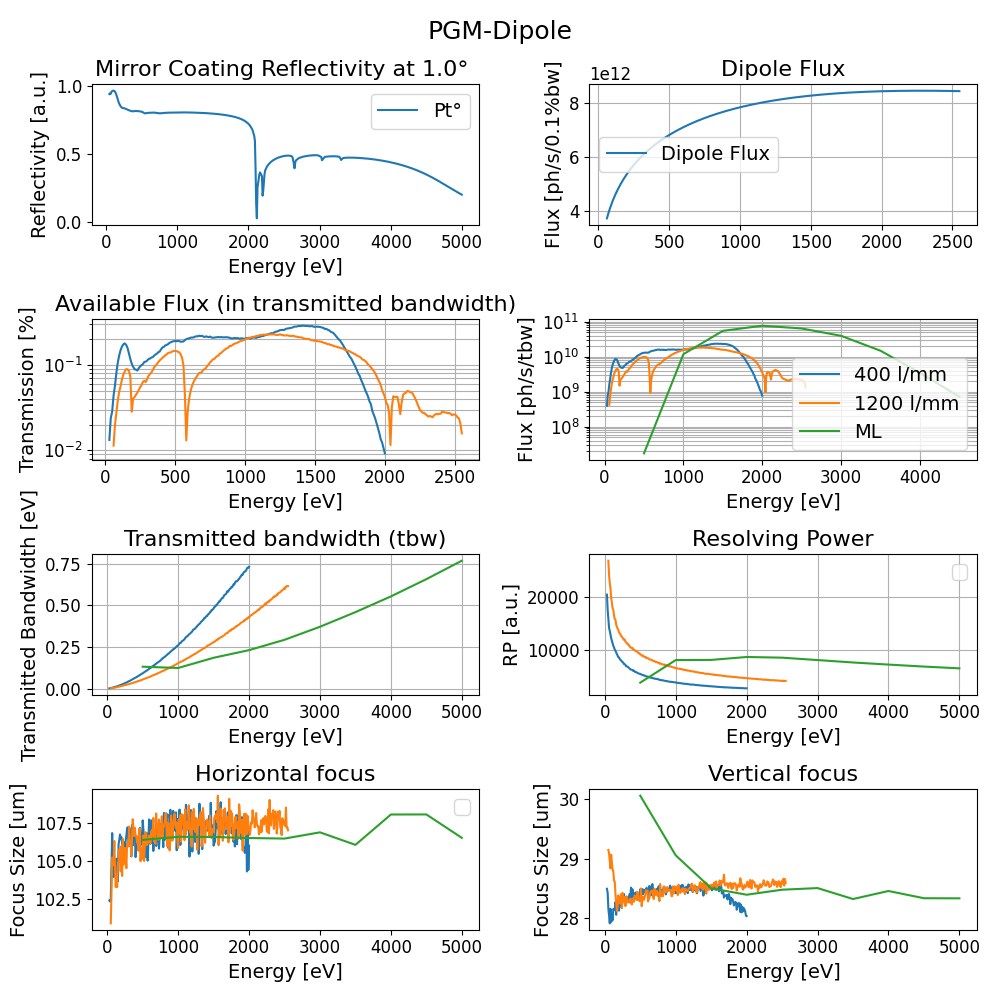
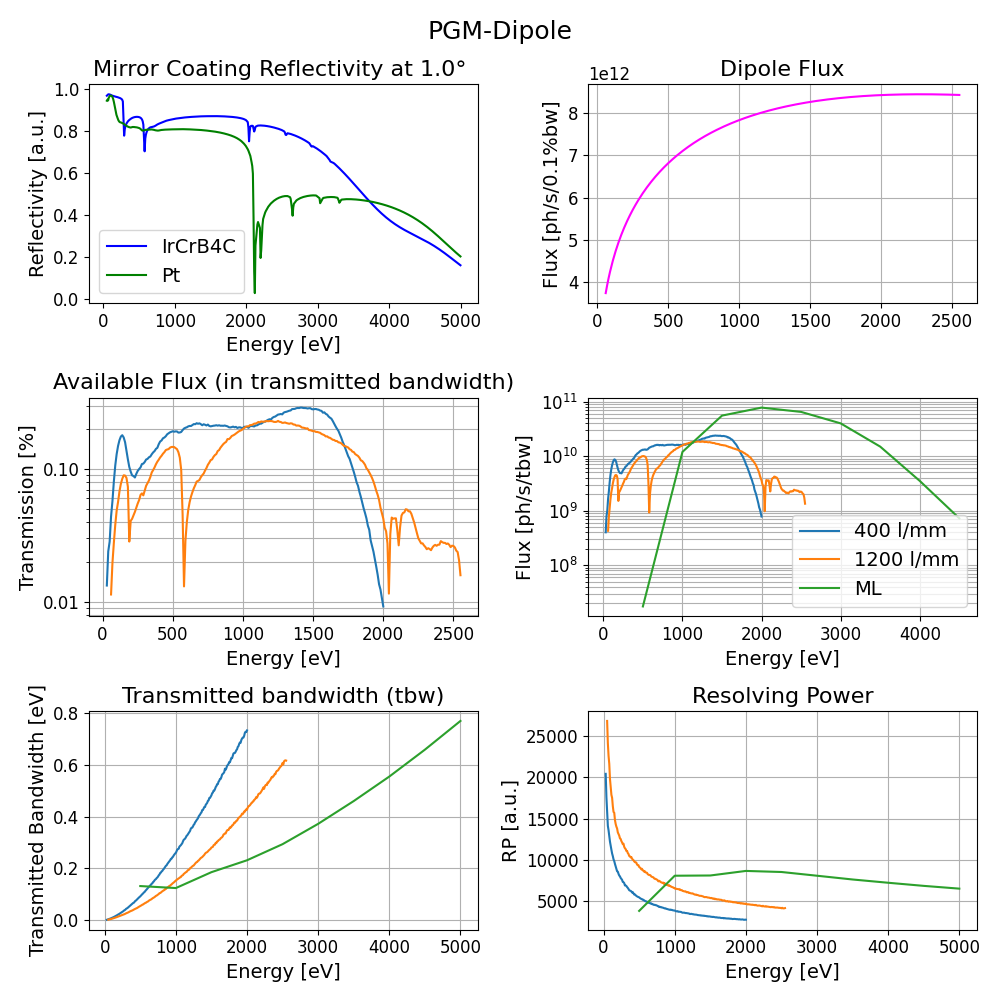
divide the plots

diff --git a/Dipole-PGM/3/eval_compare.py b/Dipole-PGM/3/eval_compare.py
@@ -1,5 +1,6 @@
 import numpy as np
 import matplotlib.pyplot as plt
+import matplotlib.ticker as ticker
 import pandas as pd
 
 # path to xrt:
@@ -50,7 +51,7 @@ plt.rcParams['xtick.labelsize'] = 12
 plt.rcParams['ytick.labelsize'] = 12
 
 # plotting Flux and RP
-fig, (axs) = plt.subplots(4, 2,figsize=(10,10))
+fig, (axs) = plt.subplots(3, 2,figsize=(10,10))
 
 # MIRROR COATING
 ax=axs[0,0]
@@ -72,10 +73,12 @@ IrCrB4C, _ = get_reflectivity(IrCrB4C, E=E, theta=theta)
 Pt = rm.Material('Pt', rho=21.45,  kind='mirror',  table=table)
 Pt1, _ = get_reflectivity(Pt, E=E, theta=theta)
 
+ax.plot(E, IrCrB4C, 'blue', label='IrCrB4C')
+ax.plot(E, Pt1, 'green', label='Pt')
+
 ax.set_xlabel('Energy [eV]')
 ax.set_ylabel('Reflectivity [a.u.]')
 ax.set_title(f'Mirror Coating Reflectivity at {theta}° ')
-ax.plot(E, Pt1, label='Pt°')
 ax.legend()
 
 # text
@@ -84,10 +87,9 @@ ax.set_title('Dipole Flux')
 ax.grid(which='both', axis='both')
 ax.plot(source_flux1200['Dipole.photonEnergy'],
         source_flux1200['SourcePhotonFlux'],
+        'magenta',
         label='Dipole Flux')
 ax.set_ylabel('Flux [ph/s/0.1%bw]')
-
-ax.legend(loc=6)
 
 # AVAILABLE FLUX IN PERCENTAGE
 ax = axs[1,0]
@@ -104,6 +106,13 @@ ax.set_ylabel('Transmission [%]')
 ax.set_title('Available Flux (in transmitted bandwidth)')
 ax.grid(which='both', axis='both')
 ax.set_yscale('log')
+
+# Define a custom formatter function to display labels as floats with two decimal places
+def custom_formatter(x, pos):
+    return f"{x:.2f}"
+
+# Apply the custom formatter to the y-axis
+ax.yaxis.set_major_formatter(ticker.FuncFormatter(custom_formatter))
 
 # AVAILABLE FLUX ABSOLUTE
 ax = axs[1,1]
@@ -126,8 +135,8 @@ ax.set_yscale('log')
 ax.set_xlabel('Energy [eV]')
 ax.set_ylabel('Flux [ph/s/tbw]')
 ax.grid(which='both', axis='both')
+# ax.legend(loc='upper left', bbox_to_anchor=(1, 1))
 ax.legend()
-
 
 # BANDWIDTH
 ax = axs[2,0]
@@ -145,7 +154,6 @@ ax.set_xlabel('Energy [eV]')
 ax.set_ylabel('Transmitted Bandwidth [eV]')
 ax.set_title('Transmitted bandwidth (tbw)')
 ax.grid(which='both', axis='both')
-# ax.legend()
 
 
 # RESOLVING POWER
@@ -165,10 +173,16 @@ ax.set_xlabel('Energy [eV]')
 ax.set_ylabel('RP [a.u.]')
 ax.set_title('Resolving Power')
 ax.grid(which='both', axis='both')
-ax.legend()
+
+plt.suptitle('PGM-Dipole', fontsize=suptitle_size)
+plt.tight_layout()
+plt.savefig('plot/PGM-Dipole.png')
+
+# plotting Flux and RP
+fig, (axs) = plt.subplots(2, 1,figsize=(10,10))
 
 # HORIZONTAL FOCUS
-ax = axs[3,0]
+ax = axs[0]
 energy_400 = rp400['Dipole.photonEnergy']
 focx_400 = rp400['HorizontalFocusFWHM']
 energy_1200 = rp1200['Dipole.photonEnergy']
@@ -183,10 +197,9 @@ ax.plot(energy_ml,focx_ml*1000)
 ax.set_xlabel('Energy [eV]')
 ax.set_ylabel('Focus Size [um]')
 ax.set_title('Horizontal focus')
-ax.legend()
 
 # VERTICAL FOCUS
-ax = axs[3,1]
+ax = axs[1]
 energy_400 = rp400['Dipole.photonEnergy']
 focy_400 = rp400['VerticalFocusFWHM']
 energy_1200 = rp1200['Dipole.photonEnergy']
@@ -202,9 +215,9 @@ ax.set_xlabel('Energy [eV]')
 ax.set_ylabel('Focus Size [um]')
 ax.set_title('Vertical focus')
 
-plt.suptitle('PGM-Dipole', fontsize=suptitle_size)
+plt.suptitle('PGM-Dipole Focus Size', fontsize=suptitle_size)
 plt.tight_layout()
-plt.savefig('plot/PGM-Dipole.png')
+plt.savefig('plot/PGM-Dipole-Focus.png')
 # plt.show()
 
 
